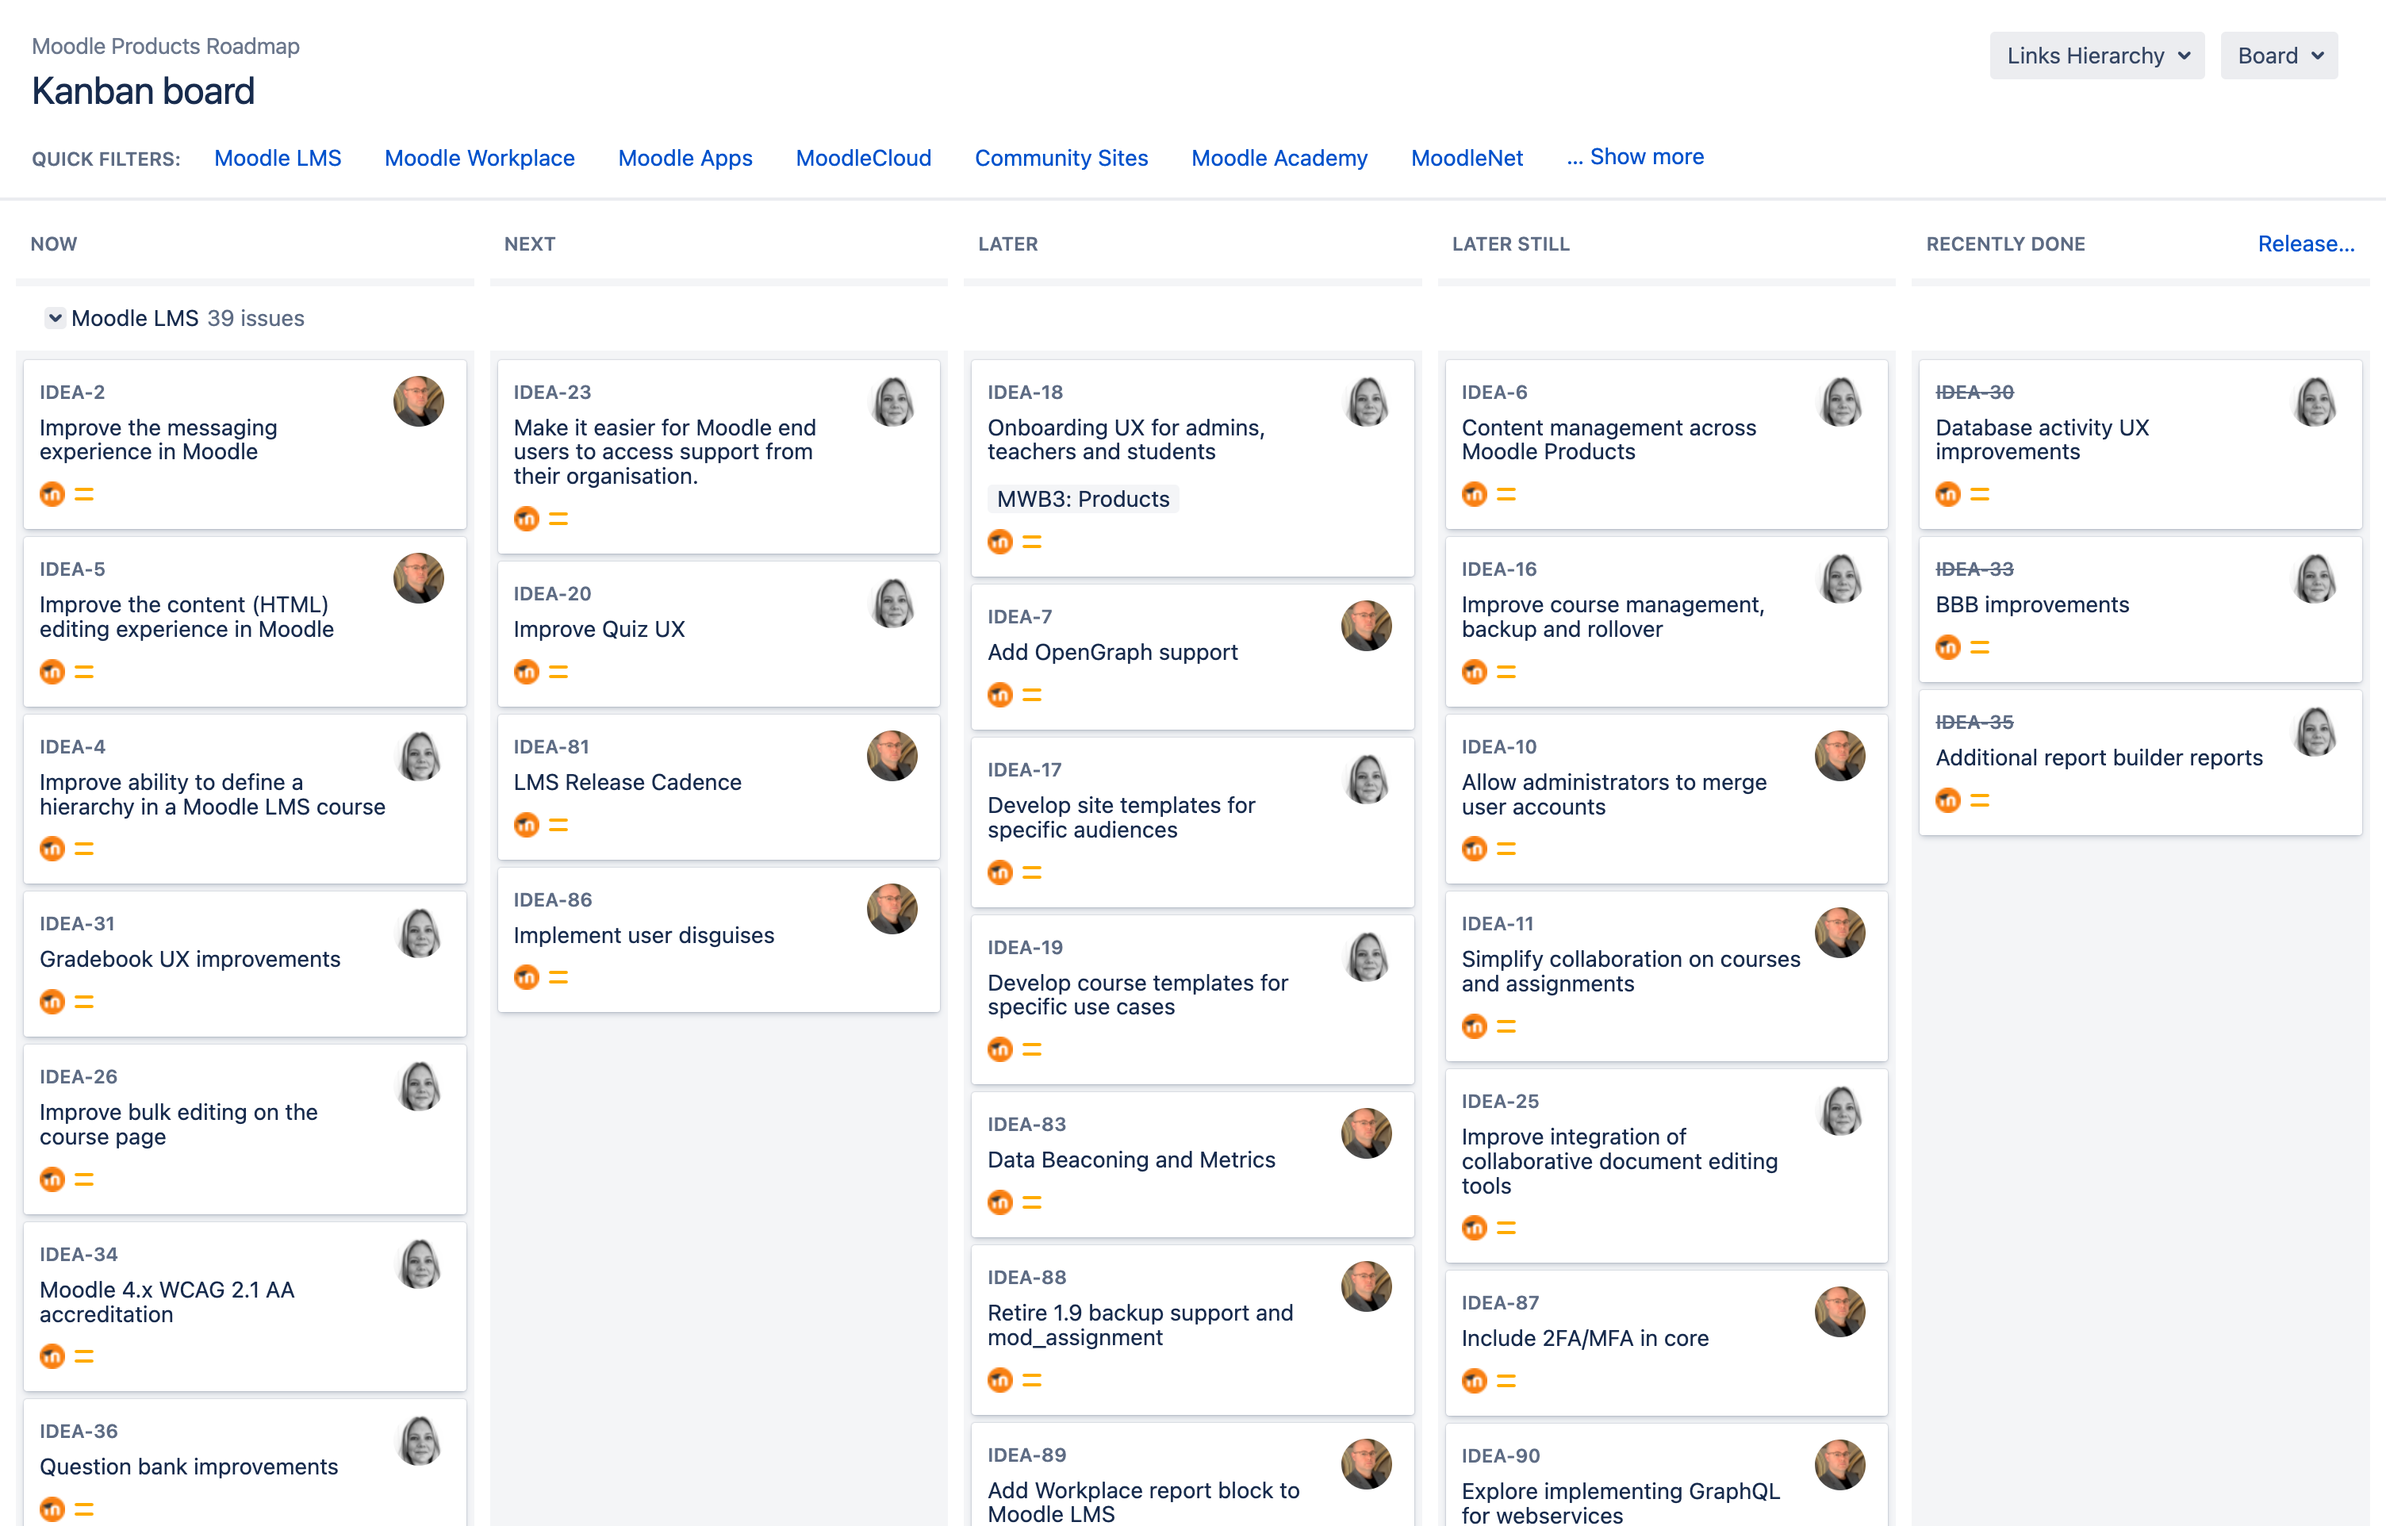
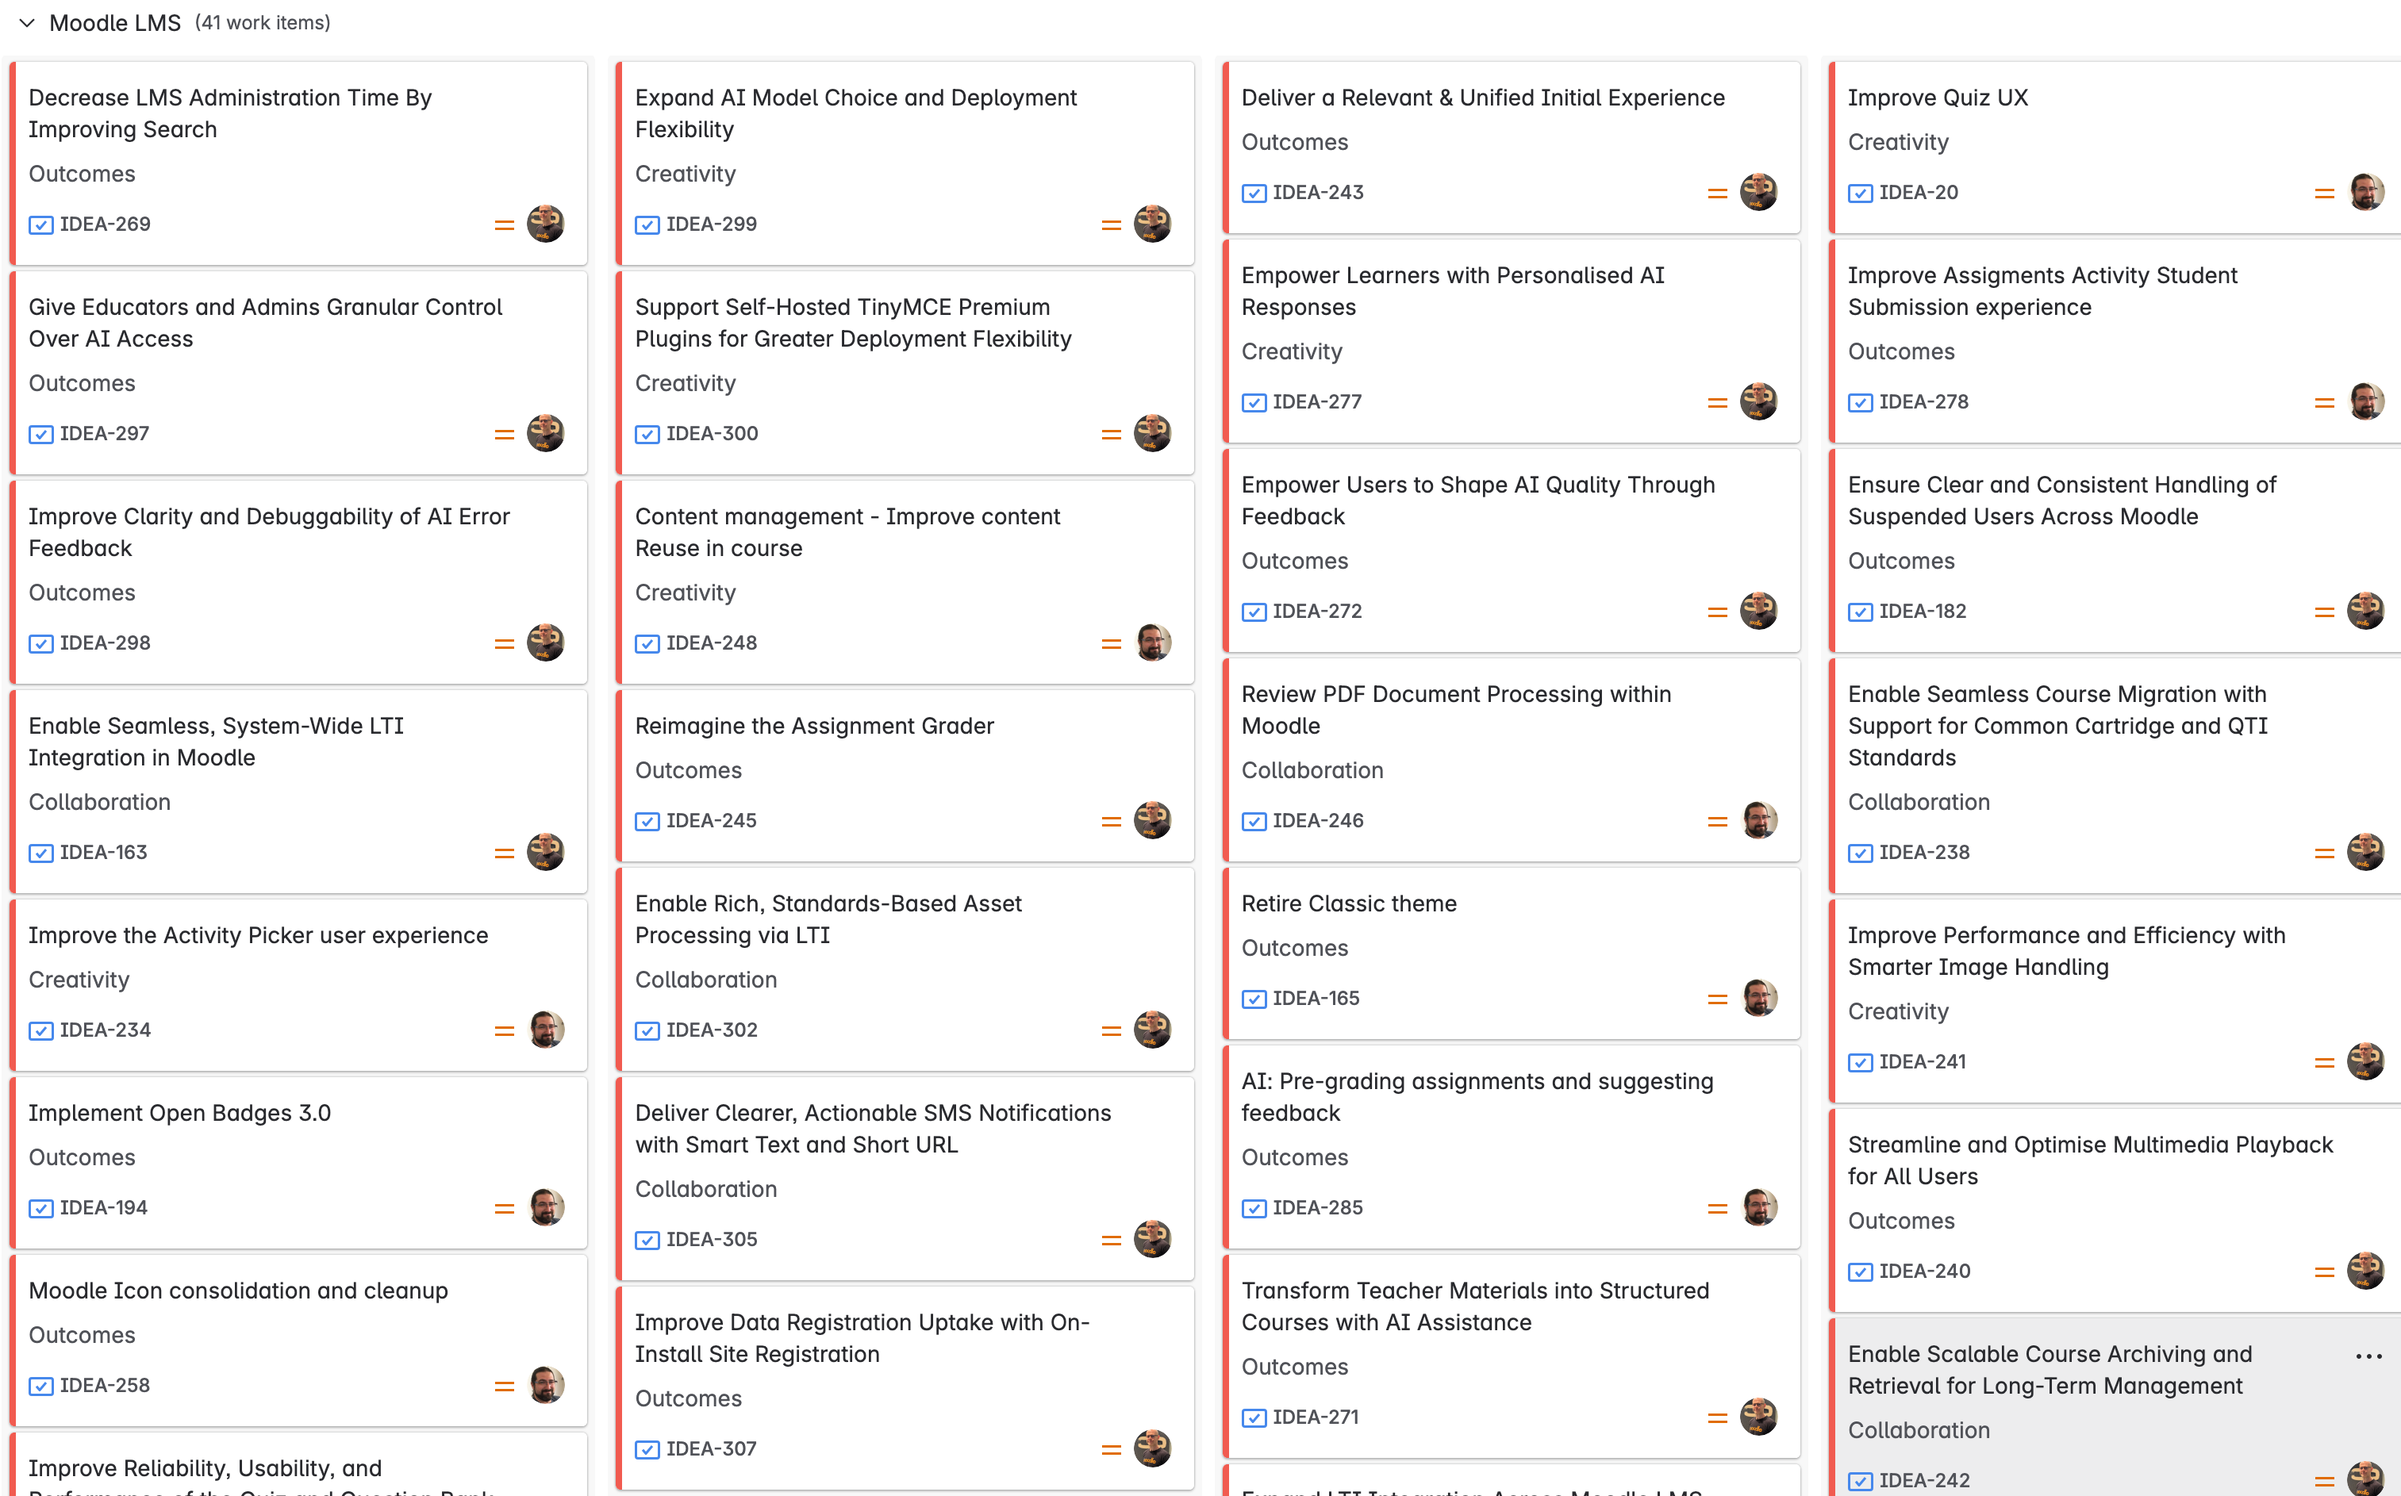
[docs] Fix link to roadmap in Jira Cloud
Fix the links on the roadmap page to correctly point to the
roadmap in Jira cloud. Also, update the roadmap image used
to show the new cloud instance.

diff --git a/general/community/roadmap.md b/general/community/roadmap.md
@@ -5,16 +5,16 @@ tags:
 sidebar_position: 4
 ---
 
-Our Moodle Products roadmap is designed to provide visibility on the development priorities of the Moodle HQ Product teams and covers all the products in our open source learning platform portfolio, consisting of Moodle LMS, Moodle Workplace, MoodleCloud, Moodle Apps, Moodle Community Sites, and Moodle Academy.
+Our Moodle Products roadmap is designed to provide visibility on the development priorities of the Moodle HQ Product teams portfolio, consisting of Moodle LMS, Moodle Workplace, MoodleCloud, Moodle Apps, Moodle Community Sites, Moodle Academy and Tech Transformation.
 
 import Link from '@docusaurus/Link';
 
 :::tip View our living Roadmap
 
-Our Roadmap is public, open, and living - you can see it at any time on our [Roadmap Kanban board](https://moodle.atlassian.net/secure/RapidBoard.jspa?rapidView=260&projectKey=IDEA).
+Our Roadmap is public, open, and living - you can see it at any time on our [Roadmap Kanban board](https://moodle.atlassian.net/jira/software/c/projects/IDEA/boards/104?ignoreStickyVersion=true).
 
 <Link
-  to="https://moodle.atlassian.net/secure/RapidBoard.jspa?rapidView=260&projectKey=IDEA"
+  to="https://moodle.atlassian.net/jira/software/c/projects/IDEA/boards/104?ignoreStickyVersion=true"
   title="View the current Moodle Roadmap on the Tracker"
   >
 
@@ -91,7 +91,7 @@ Providing our users with tools that optimise their efforts is paramount. We aim 
 
 ## Where can I find out more?
 
-To see all the details for our upcoming developments, you can visit the roadmap at any time simply by logging into Tracker and [viewing our public board](https://moodle.atlassian.net/secure/RapidBoard.jspa?rapidView=260&projectKey=IDEA).
+To see all the details for our upcoming developments, you can visit the roadmap at any time simply by logging into Tracker and [viewing our public board](https://moodle.atlassian.net/jira/software/c/projects/IDEA/boards/104?ignoreStickyVersion=true).
 
 To stay up to date with all the latest developments, please keep an eye out for our Showcase Shorts, a bird's eye view of our latest design and development outcomes, announced on moodle.org [Community News](https://moodle.org/news) every few weeks.
 
